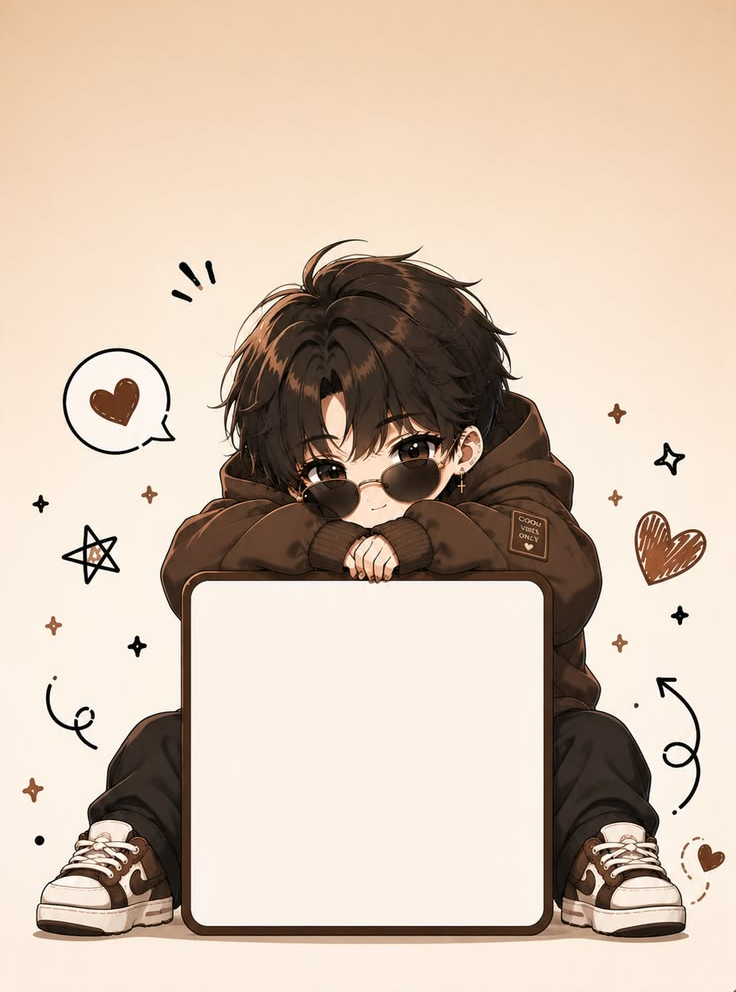
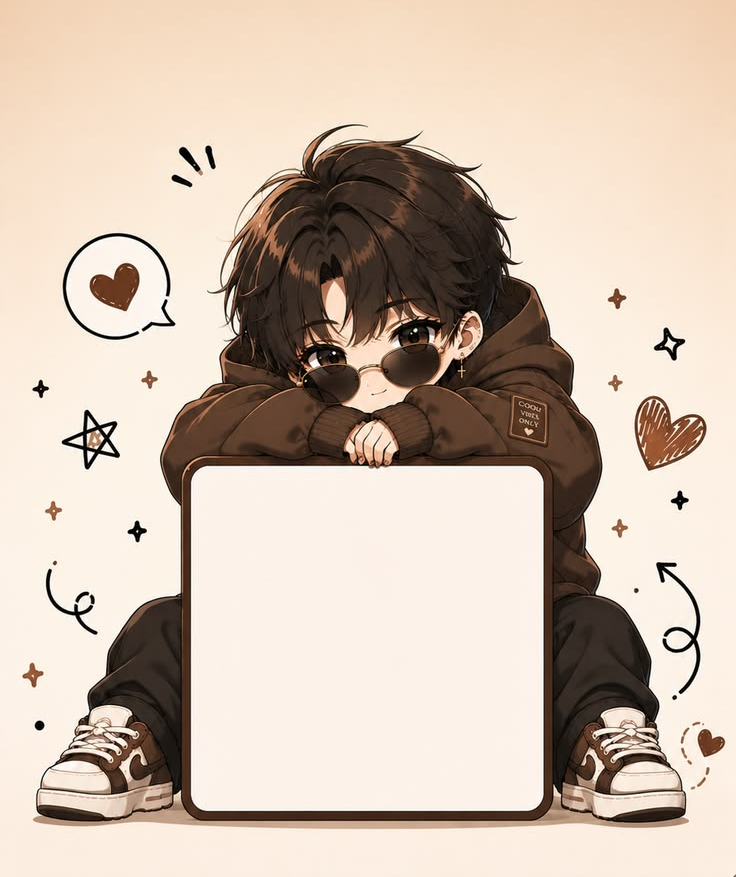
fix: sync mobile whiteboard overlay with resized phoneboy image

diff --git a/index.html b/index.html
@@ -164,6 +164,7 @@
     }
 
     /* PHONE VIEW ONLY (<640px) - Thoda Neeche + Halka Wide */
+   /* PHONE VIEW ONLY (<640px) - Aligned with resized phoneboy.png */
     @media (max-width: 640px) {
       .master-mockup-frame {
         max-width: 360px;
@@ -179,34 +180,34 @@
         inset: 0;
         width: 100%;
         height: 100%;
-        object-fit: cover;
+        object-fit: contain !important; /* image aspect ratio maintain rahegi */
         display: block !important;
         user-select: none;
         pointer-events: none;
         z-index: 1;
       }
 
-      /* Perfect alignment: Thoda neeche shift + halka wide */
+      /* Naye resized board ke according exact position */
       .whiteboard-active-area {
-        top: 51.8% !important;   /* Thoda neeche shift kiya mascot ke haath ke theek neeche */
-        left: 20.5% !important;  /* Center align wider box */
-        width: 59% !important;   /* Halka wide kiya taaki side me board cover ho sake */
-        height: 42.5% !important; /* Bottom frame tak proper stretch */
-        padding: 6px 9px 4px !important;
-        border-radius: 0.85rem !important;
+        top: 46.5% !important;
+        left: 26.5% !important;
+        width: 47% !important;
+        height: 38.5% !important;
+        padding: 5px 6px 3px !important;
+        border-radius: 0.75rem !important;
       }
 
       .board-input {
-        font-size: 0.65rem;
-        padding: 0.25rem 0.45rem;
+        font-size: 0.62rem;
+        padding: 0.22rem 0.4rem;
       }
       .board-btn-primary {
-        font-size: 0.72rem;
-        padding: 0.32rem 0.45rem;
+        font-size: 0.68rem;
+        padding: 0.26rem 0.4rem;
       }
       .board-tab {
-        font-size: 0.65rem;
-        padding: 0.18rem 0;
+        font-size: 0.62rem;
+        padding: 0.16rem 0;
       }
     }
   <!-- MODALS -->
